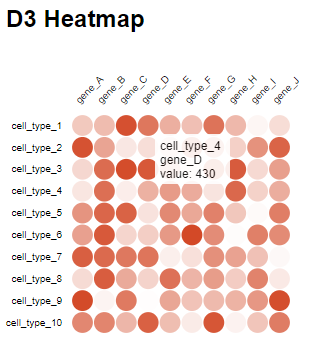
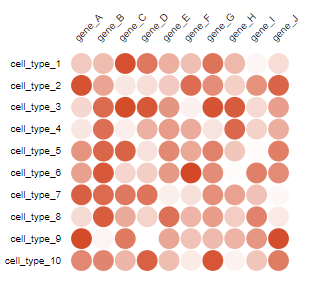
Readme update

diff --git a/index.html b/index.html
@@ -24,7 +24,7 @@
     }
 
 </style>
-<h1>D3 Heatmap</h1>
+
 <!-- Create a div where the graph will take place -->
 <div id="heatmap"></div>
 

diff --git a/README.md b/README.md
@@ -1,1 +1,8 @@
-# d3heatmap
+# D3 Heatmap
+
+> Heat map generated using D3.js v5
+
+![Screenshot}(https://raw.githubusercontent.com/brudnerm/d3heatmap/master/d3heatmap_v1.0.PNG)]
+
+> Tool tip on mouse-over
+![Tooltip Screenshot}(https://raw.githubusercontent.com/brudnerm/d3heatmap/master/d3heatmap_v1.0_tooltip.PNG)]
